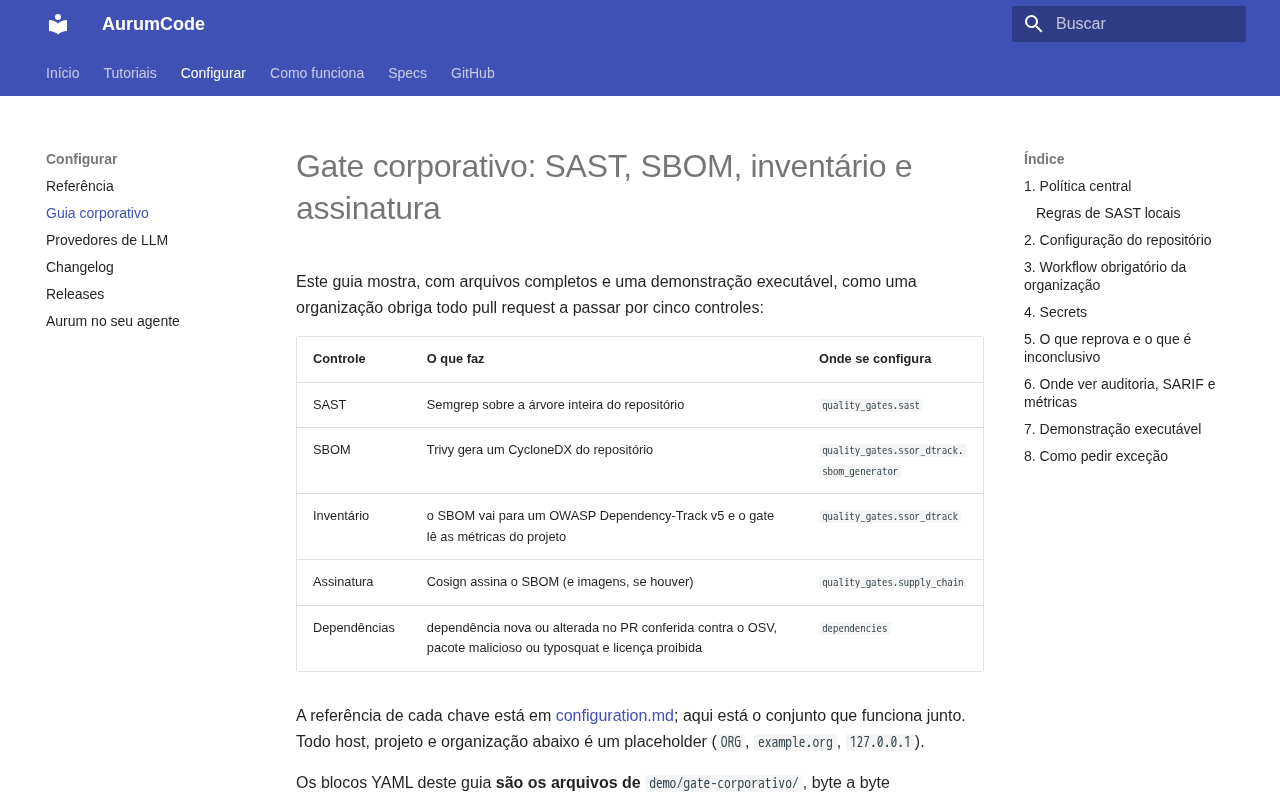
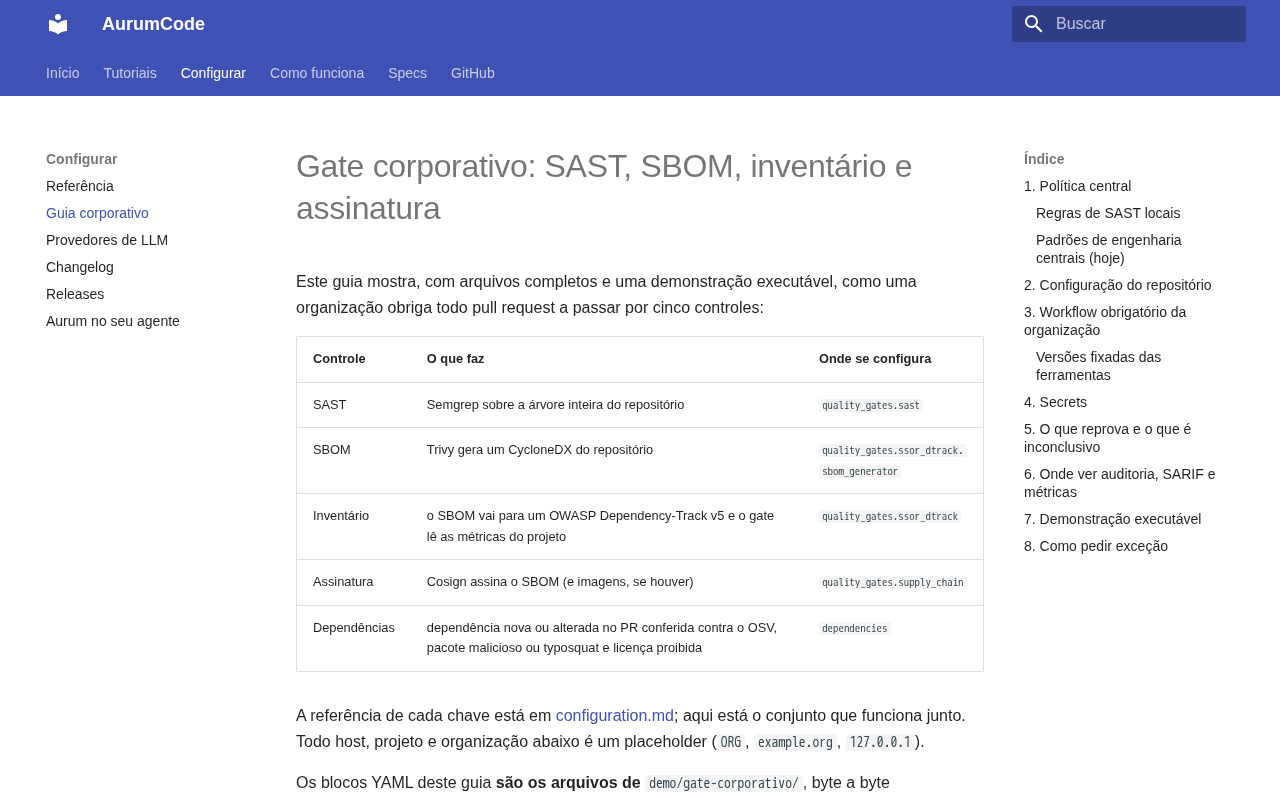
docs: changelog e capturas das páginas alteradas (AUR-612)

Changed region(s): [[0.7812, 0.2812, 0.9375, 0.6875]]

diff --git a/CHANGELOG.md b/CHANGELOG.md
@@ -6,6 +6,7 @@
 - A autorrevisão do AurumCode envia o SARIF para a aba Security do próprio repositório.
 - Aceite do guia "Instalar com ajuda da IA" (AUR-606) na amostra de aceite.
 - Changelog obrigatório não reprova mais PR aberta por bot: nova chave `changelog_check.bots` (`off`, `suggest` ou `required`, padrão `suggest`), que só rebaixa o modo; o autor vem do evento da PR (AUR-610).
+- Docs: integração e arquitetura sem promessa que o código não cumpre (camada de padrões de engenharia, precedência da política central, tag x SHA, status do gate só com gate ativo, secrets do Dependabot, versões fixadas das ferramentas) (AUR-612).
 ## 2.0.0 - 2026-10-09
 
 Primeira release do AurumCode atual: a revisão de pull request virou um gate
